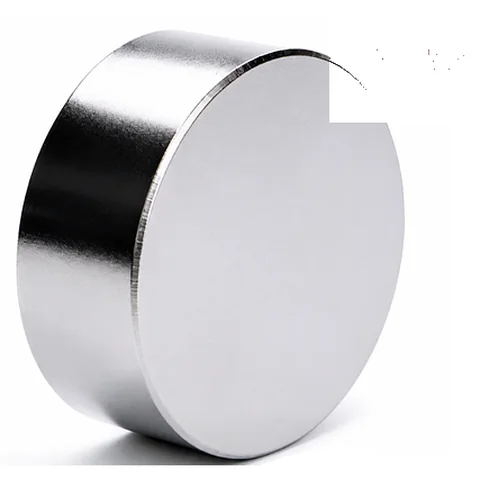
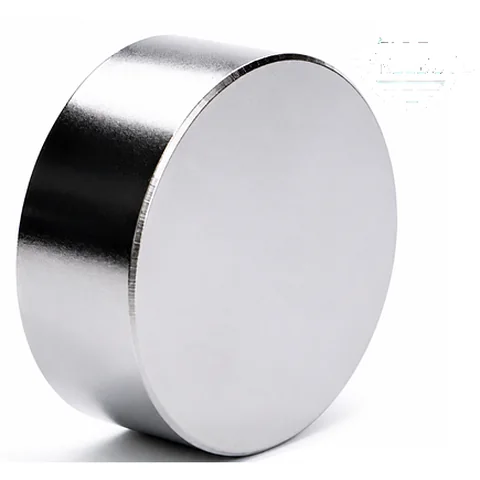
FreeBuy concept: all-items count, magnet photo cleanup

diff --git a/docs/freebuy/catalog/all/index.html b/docs/freebuy/catalog/all/index.html
@@ -75,7 +75,7 @@
 </header>
 <main id="main">
 <nav class="crumbs wrap" aria-label="Шлях"><a href="../../">Головна</a><span aria-hidden="true">/</span><span>Усі позиції демонстраційного набору</span></nav>
-<div class="wrap lst-head"><h1>Усі позиції демонстраційного набору</h1></div>
+<div class="wrap lst-head"><h1>Усі позиції демонстраційного набору</h1><p class="lst-count"><span class="mono" data-count>0</span><span>позицій за вашим запитом</span></p></div>
 <div class="wrap lst-grid" data-listing>
   <details class="filters" open>
     <summary>Фільтри</summary>
